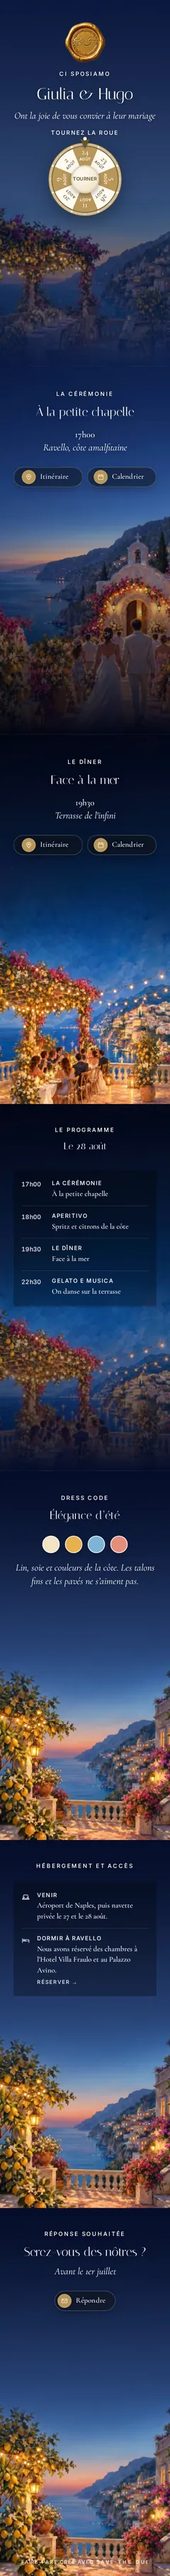
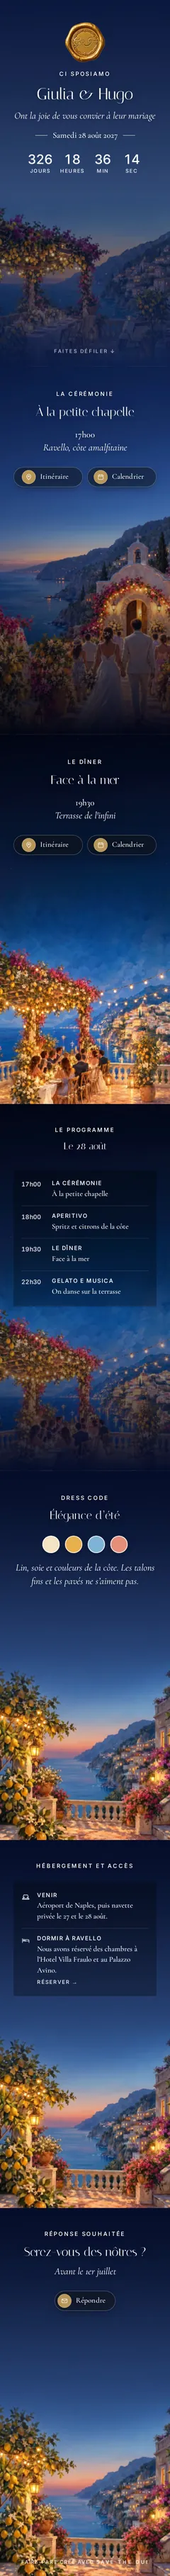
Configurateur : bascule de format immédiate (grand tableau préparé en arrière-plan), téléphone scène par scène calé sur chaque écran et sans la roue ; ouvertures et révélations en pose fixe, animées au survol, vraie enveloppe
Claude-Session: https://claude.ai/code/session_01RtanwyKP89p6wkEb6pKcCE

Changed region(s): [[0.2625, 0.0311, 0.7292, 0.0932]]

diff --git a/business/landing/vitrine.css b/business/landing/vitrine.css
@@ -820,7 +820,7 @@
   /* les deux formats : la vraie démo défile DANS un téléphone, rien ne dépasse de l'écran (règle 38).
      Scène par scène : arrêt sur chaque écran (7 écrans de la démo) ; grand tableau : une seule descente continue. */
   .fmtc .fv:has(.tbp){padding:0;align-items:center;height:236px}
-  .fmtc .fv i.tbp{position:relative;display:block;height:206px;width:auto;aspect-ratio:390/844;flex:none;border:4px solid #1d1d1b;border-radius:16px;overflow:hidden;background:#1d1d1b;box-shadow:0 12px 24px -12px rgba(0,0,0,.55);transform:none}
+  .fmtc .fv i.tbp{box-sizing:content-box;position:relative;display:block;height:198px;width:auto;aspect-ratio:390/844;flex:none;border:4px solid #1d1d1b;border-radius:16px;overflow:hidden;background:#1d1d1b;box-shadow:0 12px 24px -12px rgba(0,0,0,.55);transform:none}
   .fmtc .fv i.tb{position:absolute;inset:0;display:block;height:auto;aspect-ratio:auto;border-radius:0;box-shadow:none;background:center top/100% auto no-repeat;transform:none}
   .fmtc .fv i.tb.scenes{animation:tbScenes 18.2s ease-in-out infinite}
   .fmtc .fv i.tb.long{animation:tbLong 22s linear infinite}
@@ -831,7 +831,7 @@
   .fmtc small{padding:0 14px;font-size:12.5px;line-height:1.4;color:var(--muted)}
   .fmtc[aria-pressed="true"]::after{content:'✓';position:absolute;top:8px;right:8px;width:24px;height:24px;border-radius:50%;background:var(--ink);color:#fff;font:600 13px/24px Inter,sans-serif;text-align:center;box-shadow:0 1px 4px rgba(0,0,0,.3)}
   .opts.fmtv:has([aria-pressed="true"]) .fmtc[aria-pressed="false"]{opacity:.72}
-  @media (max-width:560px){ .fmtc .fv:has(.tbp){height:196px} .fmtc .fv i.tbp{height:170px;border-width:3px;border-radius:13px} .fmtc .fv{height:150px;gap:6px;padding:14px 8px 0} .fmtc .fv i:nth-child(3){display:none} .fmtc .fv i.roll{top:14px;height:210px} .fmtc b{font-size:15px} }
+  @media (max-width:560px){ .fmtc .fv:has(.tbp){height:196px} .fmtc .fv i.tbp{height:164px;border-width:3px;border-radius:13px} .fmtc .fv{height:150px;gap:6px;padding:14px 8px 0} .fmtc .fv i:nth-child(3){display:none} .fmtc .fv i.roll{top:14px;height:210px} .fmtc b{font-size:15px} }
   @media (max-width:560px){ .story>li.fixed{flex-direction:column;gap:3px} .story .ev-h{flex-wrap:wrap} }
   .opts .sw.th-end{margin-right:14px} /* les couleurs du thème, puis les couleurs communes */
   /* le téléphone de l'aperçu fait 284 px : la basmala y garde la même place que sur un vrai téléphone (5,2 % de la largeur), entière */
@@ -855,7 +855,9 @@
   .ed-n{margin:0;font-size:13px;color:var(--muted)}
   @media (max-width:560px){ .ed-row,.ed-row.s{grid-template-columns:1fr} .ed-x{justify-self:end} }
 
-/* Ouverture et révélation : chaque carte rejoue son effet en boucle dans un petit téléphone (5 s), avec les images du thème */
+/* Ouverture et révélation : chaque carte montre son effet dans un petit téléphone aux images du thème.
+   Au repos : une pose figée qui fait comprendre l'effet (enveloppe scellée, rideau à moitié levé, portes entrouvertes,
+   ticket à moitié gratté…). Au survol : l'animation joue en boucle (5 s) ; sur un écran tactile, le toucher fait office de survol. */
 .op-card.anim{position:relative;padding:0 0 12px;gap:2px;min-width:0;overflow:hidden}
 .op-card.anim b,.op-card.anim small{padding:0 12px}
 .op-card.anim .ov{display:grid;place-items:center;width:100%;height:116px;margin-bottom:8px;background:var(--bg-2)}
@@ -867,47 +869,55 @@
 .opts:has(.op-card.anim[aria-pressed="true"]) .op-card.anim[aria-pressed="false"] .ov{opacity:.72}
 #cOpen,#cReveal{display:grid;grid-template-columns:repeat(4,minmax(0,1fr));gap:8px}
 @media (max-width:560px){ #cOpen,#cReveal{grid-template-columns:repeat(2,minmax(0,1fr))} }
-/* enveloppe : le sceau saute, le rabat se lève, l'enveloppe descend et découvre la scène */
-.op-card.anim .ov-env .eb{inset:0;background:#efe6d6;box-shadow:inset 0 0 0 1px rgba(0,0,0,.06);animation:ovEnvB 5s ease-in-out infinite}
-.op-card.anim .ov-env .ef{left:0;right:0;top:0;height:52%;background:#e4d8c3;clip-path:polygon(0 0,100% 0,50% 100%);transform-origin:top;animation:ovEnvF 5s ease-in-out infinite}
-.op-card.anim .ov-env .es{left:50%;top:44%;width:20px;height:20px;margin:-10px 0 0 -10px;background:var(--seal) center/contain no-repeat;animation:ovEnvS 5s ease-in-out infinite}
-@keyframes ovEnvS{0%,14%{transform:scale(1);opacity:1}22%,96%{transform:scale(1.35);opacity:0}100%{transform:scale(1);opacity:1}}
-@keyframes ovEnvF{0%,20%{transform:rotateX(0)}38%,96%{transform:rotateX(178deg)}100%{transform:rotateX(0)}}
-@keyframes ovEnvB{0%,36%{transform:translateY(0)}58%,96%{transform:translateY(170%)}100%{transform:translateY(0)}}
-/* rideau : il se lève sur la scène */
-.ov-cur .cu{inset:0;background:var(--ri) center/cover no-repeat;animation:ovCur 5s cubic-bezier(.6,0,.3,1) infinite}
-@keyframes ovCur{0%,18%{transform:translateY(0)}52%,92%{transform:translateY(-102%)}100%{transform:translateY(0)}}
-/* voile : deux pans opaques qui s'ouvrent par le milieu et se tassent vers les bords */
-.ov-voile .vl,.ov-voile .vr{top:0;bottom:0;width:50%;background:var(--ri) no-repeat;background-size:200% 100%}
-.ov-voile .vl{left:0;background-position:left center;transform-origin:left;animation:ovVoile 5s cubic-bezier(.55,0,.3,1) infinite}
-.ov-voile .vr{right:0;background-position:right center;transform-origin:right;animation:ovVoile 5s cubic-bezier(.55,0,.3,1) infinite}
-@keyframes ovVoile{0%,18%{transform:scaleX(1)}55%,92%{transform:scaleX(.14)}100%{transform:scaleX(1)}}
-/* grandes portes : deux battants sur gonds, la lumière passe */
-.ov-door .dl,.ov-door .dr{top:0;bottom:0;width:50%;background:var(--op) no-repeat;background-size:200% 100%;backface-visibility:hidden}
-.ov-door .dl{left:0;background-position:left center;transform-origin:left;animation:ovDoorL 5s cubic-bezier(.5,0,.25,1) infinite}
-.ov-door .dr{right:0;background-position:right center;transform-origin:right;animation:ovDoorR 5s cubic-bezier(.5,0,.25,1) infinite}
-.ov-door .fl{inset:0;background:radial-gradient(circle at 50% 50%,rgba(255,244,214,.95),rgba(255,236,190,0) 70%);opacity:0;animation:ovFlash 5s ease-in-out infinite}
-@keyframes ovDoorL{0%,18%{transform:rotateY(0)}58%,92%{transform:rotateY(-100deg)}100%{transform:rotateY(0)}}
-@keyframes ovDoorR{0%,18%{transform:rotateY(0)}58%,92%{transform:rotateY(100deg)}100%{transform:rotateY(0)}}
-@keyframes ovFlash{0%,24%{opacity:0}38%{opacity:.85}56%,100%{opacity:0}}
+/* lecture : seulement au survol (ou au clavier) ; rien ne tourne au repos */
+.op-card.anim .ph *{animation-duration:5s;animation-iteration-count:infinite;animation-fill-mode:both;animation-play-state:running}
+.op-card.anim:not(:hover):not(:focus-visible) .ph *{animation-name:none!important}
+/* enveloppe : les vraies images de l'ouverture (corps, rabat, sceau) ; le rabat se lève, l'enveloppe s'efface */
+.op-card.anim .ov-env .eb{inset:0;overflow:hidden;background:linear-gradient(175deg,#ece3ce 0%,#e2d7bd 55%,#d6c9a9 100%);animation-name:ovEnvOut;animation-timing-function:ease-in-out}
+.op-card.anim .ov-env .ein{top:0;height:100%;aspect-ratio:620/1110;left:50%;translate:-50% 0;transform:scale(1.32);transform-origin:50% 58%;perspective:300px}
+.op-card.anim .ov-env .ebd{inset:0;background:url("/img/open/env-body.webp") center/100% 100% no-repeat}
+.op-card.anim .ov-env .ef{left:0;top:0;width:100%;transform-origin:50% 0;animation-name:ovEnvFlap;animation-timing-function:cubic-bezier(.32,0,.34,1)}
+.op-card.anim .ov-env .ef img{display:block;width:100%;height:auto;filter:drop-shadow(0 3px 4px rgba(72,50,22,.28))}
+.op-card.anim .ov-env .es{left:50%;top:94%;width:26.5%;aspect-ratio:1;transform:translate(-50%,-50%);background:var(--seal) center/contain no-repeat}
+@keyframes ovEnvFlap{0%,14%{transform:rotateX(0)}46%,100%{transform:rotateX(62deg)}}
+@keyframes ovEnvOut{0%,44%{opacity:1}64%,92%{opacity:0}100%{opacity:1}}
+/* rideau : il se lève sur la scène (au repos : à moitié levé) */
+.op-card.anim .ov-cur .cu{inset:0;background:var(--ri) center/cover no-repeat;transform:translateY(-48%);animation-name:ovCur;animation-timing-function:cubic-bezier(.6,0,.3,1)}
+@keyframes ovCur{0%,14%{transform:translateY(0)}52%,92%{transform:translateY(-102%)}100%{transform:translateY(0)}}
+/* voile : deux pans opaques qui s'ouvrent par le milieu (au repos : entrouverts) */
+.op-card.anim .ov-voile .vl,.op-card.anim .ov-voile .vr{top:0;bottom:0;width:50%;background:var(--ri) no-repeat;background-size:200% 100%;transform:scaleX(.58);animation-name:ovVoile;animation-timing-function:cubic-bezier(.55,0,.3,1)}
+.op-card.anim .ov-voile .vl{left:0;background-position:left center;transform-origin:left}
+.op-card.anim .ov-voile .vr{right:0;background-position:right center;transform-origin:right}
+@keyframes ovVoile{0%,14%{transform:scaleX(1)}55%,92%{transform:scaleX(.14)}100%{transform:scaleX(1)}}
+/* grandes portes : deux battants sur gonds, la lumière passe (au repos : entrouvertes, la lumière au milieu) */
+.op-card.anim .ov-door .dl,.op-card.anim .ov-door .dr{top:0;bottom:0;width:50%;background:var(--op) no-repeat;background-size:200% 100%;backface-visibility:hidden;animation-timing-function:cubic-bezier(.5,0,.25,1)}
+.op-card.anim .ov-door .dl{left:0;background-position:left center;transform-origin:left;transform:rotateY(-48deg);animation-name:ovDoorL}
+.op-card.anim .ov-door .dr{right:0;background-position:right center;transform-origin:right;transform:rotateY(48deg);animation-name:ovDoorR}
+.op-card.anim .ov-door .fl{inset:0;background:radial-gradient(circle at 50% 50%,rgba(255,244,214,.95),rgba(255,236,190,0) 70%);opacity:.55;animation-name:ovFlash}
+@keyframes ovDoorL{0%,14%{transform:rotateY(0)}58%,92%{transform:rotateY(-100deg)}100%{transform:rotateY(0)}}
+@keyframes ovDoorR{0%,14%{transform:rotateY(0)}58%,92%{transform:rotateY(100deg)}100%{transform:rotateY(0)}}
+@keyframes ovFlash{0%,22%{opacity:0}38%{opacity:.85}56%,100%{opacity:0}}
 /* révélation de la date */
 .op-card.anim .ph .dt{left:0;right:0;top:30%;text-align:center;font:italic 500 11px/1.2 "Cormorant Garamond",Georgia,serif;color:#fff;text-shadow:0 1px 4px rgba(0,0,0,.6)}
-.ov-non .dt{animation:ovDate 5s ease-in-out infinite}
+.op-card.anim .ov-non .dt{animation-name:ovDate;animation-timing-function:ease-in-out}
 @keyframes ovDate{0%,10%{opacity:0;transform:translateY(4px)}28%,90%{opacity:1;transform:none}100%{opacity:0}}
-.ov-scratch .fo{left:7px;right:7px;top:calc(30% - 4px);height:20px;border-radius:3px;background:linear-gradient(135deg,color-mix(in srgb,var(--pc) 70%,#fff),var(--pc) 55%,color-mix(in srgb,var(--pc) 60%,#000));animation:ovFoil 5s linear infinite}
-.ov-scratch .coin{top:calc(30% - 2px);left:6px;width:12px;height:12px;border-radius:50%;background:radial-gradient(circle at 35% 35%,#fff6d8,#c9a35a 60%,#8a6a2c);box-shadow:0 1px 3px rgba(0,0,0,.5);animation:ovCoin 5s linear infinite}
+.op-card.anim .ov-scratch .fo{left:7px;right:7px;top:calc(30% - 4px);height:20px;border-radius:3px;background:linear-gradient(135deg,color-mix(in srgb,var(--pc) 70%,#fff),var(--pc) 55%,color-mix(in srgb,var(--pc) 60%,#000));clip-path:inset(0 0 0 52%);animation-name:ovFoil;animation-timing-function:linear}
+.op-card.anim .ov-scratch .coin{top:calc(30% - 2px);left:6px;width:12px;height:12px;border-radius:50%;background:radial-gradient(circle at 35% 35%,#fff6d8,#c9a35a 60%,#8a6a2c);box-shadow:0 1px 3px rgba(0,0,0,.5);transform:translate(16px,3px);animation-name:ovCoin;animation-timing-function:linear}
 @keyframes ovFoil{0%,16%{clip-path:inset(0 0 0 0)}60%,92%{clip-path:inset(0 0 0 100%)}100%{clip-path:inset(0 0 0 0)}}
 @keyframes ovCoin{0%,16%{transform:translate(0,0);opacity:1}26%{transform:translate(8px,6px)}36%{transform:translate(16px,-3px)}46%{transform:translate(24px,5px)}60%{transform:translate(34px,0);opacity:1}66%,100%{opacity:0;transform:translate(34px,0)}}
-.ov-wheel .wh{left:50%;top:22%;width:38px;height:38px;margin-left:-19px;border-radius:50%;border:2px solid #f3e6c4;background:conic-gradient(var(--pc) 0 45deg,#fbf3df 45deg 90deg,var(--pc) 90deg 135deg,#fbf3df 135deg 180deg,var(--pc) 180deg 225deg,#fbf3df 225deg 270deg,var(--pc) 270deg 315deg,#fbf3df 315deg);box-shadow:0 2px 6px rgba(0,0,0,.5);animation:ovWheel 5s cubic-bezier(.15,.6,.2,1) infinite}
-.ov-wheel .pin{left:50%;top:calc(22% - 5px);width:0;height:0;margin-left:-4px;border:4px solid transparent;border-top:7px solid #fff}
-@keyframes ovWheel{0%,10%{transform:rotate(0)}70%,94%{transform:rotate(1462deg)}100%{transform:rotate(1462deg)}}
-.op-card.anim .ov-slot .sl{left:3px;right:3px;top:28%;height:18px;display:flex !important;gap:2px}
+.op-card.anim .ov-wheel .wh{left:50%;top:22%;width:38px;height:38px;margin-left:-19px;border-radius:50%;border:2px solid #f3e6c4;background:conic-gradient(var(--pc) 0 45deg,#fbf3df 45deg 90deg,var(--pc) 90deg 135deg,#fbf3df 135deg 180deg,var(--pc) 180deg 225deg,#fbf3df 225deg 270deg,var(--pc) 270deg 315deg,#fbf3df 315deg);box-shadow:0 2px 6px rgba(0,0,0,.5);transform:rotate(22deg);animation-name:ovWheel;animation-timing-function:cubic-bezier(.15,.6,.2,1)}
+.op-card.anim .ov-wheel .pin{left:50%;top:calc(22% - 5px);width:0;height:0;margin-left:-4px;border:4px solid transparent;border-top:7px solid #fff}
+@keyframes ovWheel{0%,10%{transform:rotate(0)}70%,100%{transform:rotate(1462deg)}}
+.op-card.anim .ov-slot .sl{left:3px;right:3px;top:28%;height:18px;display:flex!important;gap:2px}
 .op-card.anim .ov-slot .sl>i{position:relative;flex:1;height:18px;overflow:hidden;border-radius:2px;background:#fbf3df;box-shadow:inset 0 0 0 1px var(--pc)}
-.op-card.anim .ov-slot .sl>i>i{position:absolute;left:0;right:0;top:0;animation:ovSlot 5s cubic-bezier(.3,0,.2,1) infinite}
+.op-card.anim .ov-slot .sl>i>i{position:absolute;left:0;right:0;top:0;transform:translateY(-90px);animation-name:ovSlot;animation-timing-function:cubic-bezier(.3,0,.2,1)}
 .op-card.anim .ov-slot .sl>i:nth-child(2)>i{animation-name:ovSlot2}
 .op-card.anim .ov-slot .sl>i:nth-child(3)>i{animation-name:ovSlot3}
 .op-card.anim .ov-slot .sl b{padding:0;display:block;height:18px;font:600 9.5px/18px Inter,sans-serif;letter-spacing:-.02em;text-align:center;color:#1d1d1b}
 @keyframes ovSlot{0%,12%{transform:translateY(0)}40%,94%{transform:translateY(-90px)}100%{transform:translateY(0)}}
 @keyframes ovSlot2{0%,12%{transform:translateY(0)}52%,94%{transform:translateY(-90px)}100%{transform:translateY(0)}}
 @keyframes ovSlot3{0%,12%{transform:translateY(0)}64%,94%{transform:translateY(-90px)}100%{transform:translateY(0)}}
-@media (prefers-reduced-motion:reduce){ .op-card.anim .ph *{animation:none !important} }
+@media (prefers-reduced-motion:reduce){ .op-card.anim .ph *{animation-name:none!important} }
+
+/* grand tableau préparé en arrière-plan pendant qu'on regarde le scène par scène */
+#cpPhone.lg-off iframe.cp-lg{visibility:hidden;pointer-events:none}

diff --git a/business/site/vitrine.css b/business/site/vitrine.css
@@ -820,7 +820,7 @@
   /* les deux formats : la vraie démo défile DANS un téléphone, rien ne dépasse de l'écran (règle 38).
      Scène par scène : arrêt sur chaque écran (7 écrans de la démo) ; grand tableau : une seule descente continue. */
   .fmtc .fv:has(.tbp){padding:0;align-items:center;height:236px}
-  .fmtc .fv i.tbp{position:relative;display:block;height:206px;width:auto;aspect-ratio:390/844;flex:none;border:4px solid #1d1d1b;border-radius:16px;overflow:hidden;background:#1d1d1b;box-shadow:0 12px 24px -12px rgba(0,0,0,.55);transform:none}
+  .fmtc .fv i.tbp{box-sizing:content-box;position:relative;display:block;height:198px;width:auto;aspect-ratio:390/844;flex:none;border:4px solid #1d1d1b;border-radius:16px;overflow:hidden;background:#1d1d1b;box-shadow:0 12px 24px -12px rgba(0,0,0,.55);transform:none}
   .fmtc .fv i.tb{position:absolute;inset:0;display:block;height:auto;aspect-ratio:auto;border-radius:0;box-shadow:none;background:center top/100% auto no-repeat;transform:none}
   .fmtc .fv i.tb.scenes{animation:tbScenes 18.2s ease-in-out infinite}
   .fmtc .fv i.tb.long{animation:tbLong 22s linear infinite}
@@ -831,7 +831,7 @@
   .fmtc small{padding:0 14px;font-size:12.5px;line-height:1.4;color:var(--muted)}
   .fmtc[aria-pressed="true"]::after{content:'✓';position:absolute;top:8px;right:8px;width:24px;height:24px;border-radius:50%;background:var(--ink);color:#fff;font:600 13px/24px Inter,sans-serif;text-align:center;box-shadow:0 1px 4px rgba(0,0,0,.3)}
   .opts.fmtv:has([aria-pressed="true"]) .fmtc[aria-pressed="false"]{opacity:.72}
-  @media (max-width:560px){ .fmtc .fv:has(.tbp){height:196px} .fmtc .fv i.tbp{height:170px;border-width:3px;border-radius:13px} .fmtc .fv{height:150px;gap:6px;padding:14px 8px 0} .fmtc .fv i:nth-child(3){display:none} .fmtc .fv i.roll{top:14px;height:210px} .fmtc b{font-size:15px} }
+  @media (max-width:560px){ .fmtc .fv:has(.tbp){height:196px} .fmtc .fv i.tbp{height:164px;border-width:3px;border-radius:13px} .fmtc .fv{height:150px;gap:6px;padding:14px 8px 0} .fmtc .fv i:nth-child(3){display:none} .fmtc .fv i.roll{top:14px;height:210px} .fmtc b{font-size:15px} }
   @media (max-width:560px){ .story>li.fixed{flex-direction:column;gap:3px} .story .ev-h{flex-wrap:wrap} }
   .opts .sw.th-end{margin-right:14px} /* les couleurs du thème, puis les couleurs communes */
   /* le téléphone de l'aperçu fait 284 px : la basmala y garde la même place que sur un vrai téléphone (5,2 % de la largeur), entière */
@@ -855,7 +855,9 @@
   .ed-n{margin:0;font-size:13px;color:var(--muted)}
   @media (max-width:560px){ .ed-row,.ed-row.s{grid-template-columns:1fr} .ed-x{justify-self:end} }
 
-/* Ouverture et révélation : chaque carte rejoue son effet en boucle dans un petit téléphone (5 s), avec les images du thème */
+/* Ouverture et révélation : chaque carte montre son effet dans un petit téléphone aux images du thème.
+   Au repos : une pose figée qui fait comprendre l'effet (enveloppe scellée, rideau à moitié levé, portes entrouvertes,
+   ticket à moitié gratté…). Au survol : l'animation joue en boucle (5 s) ; sur un écran tactile, le toucher fait office de survol. */
 .op-card.anim{position:relative;padding:0 0 12px;gap:2px;min-width:0;overflow:hidden}
 .op-card.anim b,.op-card.anim small{padding:0 12px}
 .op-card.anim .ov{display:grid;place-items:center;width:100%;height:116px;margin-bottom:8px;background:var(--bg-2)}
@@ -867,47 +869,55 @@
 .opts:has(.op-card.anim[aria-pressed="true"]) .op-card.anim[aria-pressed="false"] .ov{opacity:.72}
 #cOpen,#cReveal{display:grid;grid-template-columns:repeat(4,minmax(0,1fr));gap:8px}
 @media (max-width:560px){ #cOpen,#cReveal{grid-template-columns:repeat(2,minmax(0,1fr))} }
-/* enveloppe : le sceau saute, le rabat se lève, l'enveloppe descend et découvre la scène */
-.op-card.anim .ov-env .eb{inset:0;background:#efe6d6;box-shadow:inset 0 0 0 1px rgba(0,0,0,.06);animation:ovEnvB 5s ease-in-out infinite}
-.op-card.anim .ov-env .ef{left:0;right:0;top:0;height:52%;background:#e4d8c3;clip-path:polygon(0 0,100% 0,50% 100%);transform-origin:top;animation:ovEnvF 5s ease-in-out infinite}
-.op-card.anim .ov-env .es{left:50%;top:44%;width:20px;height:20px;margin:-10px 0 0 -10px;background:var(--seal) center/contain no-repeat;animation:ovEnvS 5s ease-in-out infinite}
-@keyframes ovEnvS{0%,14%{transform:scale(1);opacity:1}22%,96%{transform:scale(1.35);opacity:0}100%{transform:scale(1);opacity:1}}
-@keyframes ovEnvF{0%,20%{transform:rotateX(0)}38%,96%{transform:rotateX(178deg)}100%{transform:rotateX(0)}}
-@keyframes ovEnvB{0%,36%{transform:translateY(0)}58%,96%{transform:translateY(170%)}100%{transform:translateY(0)}}
-/* rideau : il se lève sur la scène */
-.ov-cur .cu{inset:0;background:var(--ri) center/cover no-repeat;animation:ovCur 5s cubic-bezier(.6,0,.3,1) infinite}
-@keyframes ovCur{0%,18%{transform:translateY(0)}52%,92%{transform:translateY(-102%)}100%{transform:translateY(0)}}
-/* voile : deux pans opaques qui s'ouvrent par le milieu et se tassent vers les bords */
-.ov-voile .vl,.ov-voile .vr{top:0;bottom:0;width:50%;background:var(--ri) no-repeat;background-size:200% 100%}
-.ov-voile .vl{left:0;background-position:left center;transform-origin:left;animation:ovVoile 5s cubic-bezier(.55,0,.3,1) infinite}
-.ov-voile .vr{right:0;background-position:right center;transform-origin:right;animation:ovVoile 5s cubic-bezier(.55,0,.3,1) infinite}
-@keyframes ovVoile{0%,18%{transform:scaleX(1)}55%,92%{transform:scaleX(.14)}100%{transform:scaleX(1)}}
-/* grandes portes : deux battants sur gonds, la lumière passe */
-.ov-door .dl,.ov-door .dr{top:0;bottom:0;width:50%;background:var(--op) no-repeat;background-size:200% 100%;backface-visibility:hidden}
-.ov-door .dl{left:0;background-position:left center;transform-origin:left;animation:ovDoorL 5s cubic-bezier(.5,0,.25,1) infinite}
-.ov-door .dr{right:0;background-position:right center;transform-origin:right;animation:ovDoorR 5s cubic-bezier(.5,0,.25,1) infinite}
-.ov-door .fl{inset:0;background:radial-gradient(circle at 50% 50%,rgba(255,244,214,.95),rgba(255,236,190,0) 70%);opacity:0;animation:ovFlash 5s ease-in-out infinite}
-@keyframes ovDoorL{0%,18%{transform:rotateY(0)}58%,92%{transform:rotateY(-100deg)}100%{transform:rotateY(0)}}
-@keyframes ovDoorR{0%,18%{transform:rotateY(0)}58%,92%{transform:rotateY(100deg)}100%{transform:rotateY(0)}}
-@keyframes ovFlash{0%,24%{opacity:0}38%{opacity:.85}56%,100%{opacity:0}}
+/* lecture : seulement au survol (ou au clavier) ; rien ne tourne au repos */
+.op-card.anim .ph *{animation-duration:5s;animation-iteration-count:infinite;animation-fill-mode:both;animation-play-state:running}
+.op-card.anim:not(:hover):not(:focus-visible) .ph *{animation-name:none!important}
+/* enveloppe : les vraies images de l'ouverture (corps, rabat, sceau) ; le rabat se lève, l'enveloppe s'efface */
+.op-card.anim .ov-env .eb{inset:0;overflow:hidden;background:linear-gradient(175deg,#ece3ce 0%,#e2d7bd 55%,#d6c9a9 100%);animation-name:ovEnvOut;animation-timing-function:ease-in-out}
+.op-card.anim .ov-env .ein{top:0;height:100%;aspect-ratio:620/1110;left:50%;translate:-50% 0;transform:scale(1.32);transform-origin:50% 58%;perspective:300px}
+.op-card.anim .ov-env .ebd{inset:0;background:url("/img/open/env-body.webp") center/100% 100% no-repeat}
+.op-card.anim .ov-env .ef{left:0;top:0;width:100%;transform-origin:50% 0;animation-name:ovEnvFlap;animation-timing-function:cubic-bezier(.32,0,.34,1)}
+.op-card.anim .ov-env .ef img{display:block;width:100%;height:auto;filter:drop-shadow(0 3px 4px rgba(72,50,22,.28))}
+.op-card.anim .ov-env .es{left:50%;top:94%;width:26.5%;aspect-ratio:1;transform:translate(-50%,-50%);background:var(--seal) center/contain no-repeat}
+@keyframes ovEnvFlap{0%,14%{transform:rotateX(0)}46%,100%{transform:rotateX(62deg)}}
+@keyframes ovEnvOut{0%,44%{opacity:1}64%,92%{opacity:0}100%{opacity:1}}
+/* rideau : il se lève sur la scène (au repos : à moitié levé) */
+.op-card.anim .ov-cur .cu{inset:0;background:var(--ri) center/cover no-repeat;transform:translateY(-48%);animation-name:ovCur;animation-timing-function:cubic-bezier(.6,0,.3,1)}
+@keyframes ovCur{0%,14%{transform:translateY(0)}52%,92%{transform:translateY(-102%)}100%{transform:translateY(0)}}
+/* voile : deux pans opaques qui s'ouvrent par le milieu (au repos : entrouverts) */
+.op-card.anim .ov-voile .vl,.op-card.anim .ov-voile .vr{top:0;bottom:0;width:50%;background:var(--ri) no-repeat;background-size:200% 100%;transform:scaleX(.58);animation-name:ovVoile;animation-timing-function:cubic-bezier(.55,0,.3,1)}
+.op-card.anim .ov-voile .vl{left:0;background-position:left center;transform-origin:left}
+.op-card.anim .ov-voile .vr{right:0;background-position:right center;transform-origin:right}
+@keyframes ovVoile{0%,14%{transform:scaleX(1)}55%,92%{transform:scaleX(.14)}100%{transform:scaleX(1)}}
+/* grandes portes : deux battants sur gonds, la lumière passe (au repos : entrouvertes, la lumière au milieu) */
+.op-card.anim .ov-door .dl,.op-card.anim .ov-door .dr{top:0;bottom:0;width:50%;background:var(--op) no-repeat;background-size:200% 100%;backface-visibility:hidden;animation-timing-function:cubic-bezier(.5,0,.25,1)}
+.op-card.anim .ov-door .dl{left:0;background-position:left center;transform-origin:left;transform:rotateY(-48deg);animation-name:ovDoorL}
+.op-card.anim .ov-door .dr{right:0;background-position:right center;transform-origin:right;transform:rotateY(48deg);animation-name:ovDoorR}
+.op-card.anim .ov-door .fl{inset:0;background:radial-gradient(circle at 50% 50%,rgba(255,244,214,.95),rgba(255,236,190,0) 70%);opacity:.55;animation-name:ovFlash}
+@keyframes ovDoorL{0%,14%{transform:rotateY(0)}58%,92%{transform:rotateY(-100deg)}100%{transform:rotateY(0)}}
+@keyframes ovDoorR{0%,14%{transform:rotateY(0)}58%,92%{transform:rotateY(100deg)}100%{transform:rotateY(0)}}
+@keyframes ovFlash{0%,22%{opacity:0}38%{opacity:.85}56%,100%{opacity:0}}
 /* révélation de la date */
 .op-card.anim .ph .dt{left:0;right:0;top:30%;text-align:center;font:italic 500 11px/1.2 "Cormorant Garamond",Georgia,serif;color:#fff;text-shadow:0 1px 4px rgba(0,0,0,.6)}
-.ov-non .dt{animation:ovDate 5s ease-in-out infinite}
+.op-card.anim .ov-non .dt{animation-name:ovDate;animation-timing-function:ease-in-out}
 @keyframes ovDate{0%,10%{opacity:0;transform:translateY(4px)}28%,90%{opacity:1;transform:none}100%{opacity:0}}
-.ov-scratch .fo{left:7px;right:7px;top:calc(30% - 4px);height:20px;border-radius:3px;background:linear-gradient(135deg,color-mix(in srgb,var(--pc) 70%,#fff),var(--pc) 55%,color-mix(in srgb,var(--pc) 60%,#000));animation:ovFoil 5s linear infinite}
-.ov-scratch .coin{top:calc(30% - 2px);left:6px;width:12px;height:12px;border-radius:50%;background:radial-gradient(circle at 35% 35%,#fff6d8,#c9a35a 60%,#8a6a2c);box-shadow:0 1px 3px rgba(0,0,0,.5);animation:ovCoin 5s linear infinite}
+.op-card.anim .ov-scratch .fo{left:7px;right:7px;top:calc(30% - 4px);height:20px;border-radius:3px;background:linear-gradient(135deg,color-mix(in srgb,var(--pc) 70%,#fff),var(--pc) 55%,color-mix(in srgb,var(--pc) 60%,#000));clip-path:inset(0 0 0 52%);animation-name:ovFoil;animation-timing-function:linear}
+.op-card.anim .ov-scratch .coin{top:calc(30% - 2px);left:6px;width:12px;height:12px;border-radius:50%;background:radial-gradient(circle at 35% 35%,#fff6d8,#c9a35a 60%,#8a6a2c);box-shadow:0 1px 3px rgba(0,0,0,.5);transform:translate(16px,3px);animation-name:ovCoin;animation-timing-function:linear}
 @keyframes ovFoil{0%,16%{clip-path:inset(0 0 0 0)}60%,92%{clip-path:inset(0 0 0 100%)}100%{clip-path:inset(0 0 0 0)}}
 @keyframes ovCoin{0%,16%{transform:translate(0,0);opacity:1}26%{transform:translate(8px,6px)}36%{transform:translate(16px,-3px)}46%{transform:translate(24px,5px)}60%{transform:translate(34px,0);opacity:1}66%,100%{opacity:0;transform:translate(34px,0)}}
-.ov-wheel .wh{left:50%;top:22%;width:38px;height:38px;margin-left:-19px;border-radius:50%;border:2px solid #f3e6c4;background:conic-gradient(var(--pc) 0 45deg,#fbf3df 45deg 90deg,var(--pc) 90deg 135deg,#fbf3df 135deg 180deg,var(--pc) 180deg 225deg,#fbf3df 225deg 270deg,var(--pc) 270deg 315deg,#fbf3df 315deg);box-shadow:0 2px 6px rgba(0,0,0,.5);animation:ovWheel 5s cubic-bezier(.15,.6,.2,1) infinite}
-.ov-wheel .pin{left:50%;top:calc(22% - 5px);width:0;height:0;margin-left:-4px;border:4px solid transparent;border-top:7px solid #fff}
-@keyframes ovWheel{0%,10%{transform:rotate(0)}70%,94%{transform:rotate(1462deg)}100%{transform:rotate(1462deg)}}
-.op-card.anim .ov-slot .sl{left:3px;right:3px;top:28%;height:18px;display:flex !important;gap:2px}
+.op-card.anim .ov-wheel .wh{left:50%;top:22%;width:38px;height:38px;margin-left:-19px;border-radius:50%;border:2px solid #f3e6c4;background:conic-gradient(var(--pc) 0 45deg,#fbf3df 45deg 90deg,var(--pc) 90deg 135deg,#fbf3df 135deg 180deg,var(--pc) 180deg 225deg,#fbf3df 225deg 270deg,var(--pc) 270deg 315deg,#fbf3df 315deg);box-shadow:0 2px 6px rgba(0,0,0,.5);transform:rotate(22deg);animation-name:ovWheel;animation-timing-function:cubic-bezier(.15,.6,.2,1)}
+.op-card.anim .ov-wheel .pin{left:50%;top:calc(22% - 5px);width:0;height:0;margin-left:-4px;border:4px solid transparent;border-top:7px solid #fff}
+@keyframes ovWheel{0%,10%{transform:rotate(0)}70%,100%{transform:rotate(1462deg)}}
+.op-card.anim .ov-slot .sl{left:3px;right:3px;top:28%;height:18px;display:flex!important;gap:2px}
 .op-card.anim .ov-slot .sl>i{position:relative;flex:1;height:18px;overflow:hidden;border-radius:2px;background:#fbf3df;box-shadow:inset 0 0 0 1px var(--pc)}
-.op-card.anim .ov-slot .sl>i>i{position:absolute;left:0;right:0;top:0;animation:ovSlot 5s cubic-bezier(.3,0,.2,1) infinite}
+.op-card.anim .ov-slot .sl>i>i{position:absolute;left:0;right:0;top:0;transform:translateY(-90px);animation-name:ovSlot;animation-timing-function:cubic-bezier(.3,0,.2,1)}
 .op-card.anim .ov-slot .sl>i:nth-child(2)>i{animation-name:ovSlot2}
 .op-card.anim .ov-slot .sl>i:nth-child(3)>i{animation-name:ovSlot3}
 .op-card.anim .ov-slot .sl b{padding:0;display:block;height:18px;font:600 9.5px/18px Inter,sans-serif;letter-spacing:-.02em;text-align:center;color:#1d1d1b}
 @keyframes ovSlot{0%,12%{transform:translateY(0)}40%,94%{transform:translateY(-90px)}100%{transform:translateY(0)}}
 @keyframes ovSlot2{0%,12%{transform:translateY(0)}52%,94%{transform:translateY(-90px)}100%{transform:translateY(0)}}
 @keyframes ovSlot3{0%,12%{transform:translateY(0)}64%,94%{transform:translateY(-90px)}100%{transform:translateY(0)}}
-@media (prefers-reduced-motion:reduce){ .op-card.anim .ph *{animation:none !important} }
+@media (prefers-reduced-motion:reduce){ .op-card.anim .ph *{animation-name:none!important} }
+
+/* grand tableau préparé en arrière-plan pendant qu'on regarde le scène par scène */
+#cpPhone.lg-off iframe.cp-lg{visibility:hidden;pointer-events:none}

diff --git a/business/landing/vitrine.js b/business/landing/vitrine.js
@@ -219,9 +219,10 @@
   const $=id=>document.getElementById(id);
   function shade(hex,f){ const n=parseInt(hex.slice(1),16); const ch=s=>Math.max(0,Math.min(255,Math.round(((n>>s)&255)*f))); return `rgb(${ch(16)},${ch(8)},${ch(0)})`; }
   function opt(box,items,key,label,draw){ items.forEach(it=>{ const b=document.createElement('button'); b.type='button'; b.dataset.id=it.id||it; draw(b,it); b.onclick=()=>{ C[key]=b.dataset.id; if(key==='k') C.font='theme'; paint(); }; box.appendChild(b); }); }
-  /* chaque ouverture et chaque révélation se montre sur sa carte, en boucle (« les gens voient direct l'impact, sans
-     attendre le téléphone à droite ») ; les images suivent le thème (variables --sc, --op, --seal, --pc posées par paint) */
-  const OV={env:'<i class="sc"></i><i class="eb"><i class="ef"></i><i class="es"></i></i>',cur:'<i class="sc"></i><i class="cu"></i>',
+  /* chaque ouverture et chaque révélation se montre sur sa carte (« les gens voient direct l'impact, sans attendre le
+     téléphone à droite ») : au repos, une image figée qui dit l'effet ; l'animation ne se joue qu'au survol (au toucher sur
+     téléphone), pour ne pas faire tourner huit animations en permanence ; les images suivent le thème (variables --sc, --op, --seal, --pc posées par paint) */
+  const OV={env:'<i class="sc"></i><i class="eb"><i class="ein"><i class="ebd"></i><i class="ef"><img src="/img/open/env-flap.webp" alt=""><i class="es"></i></i></i></i>',cur:'<i class="sc"></i><i class="cu"></i>',
     voile:'<i class="sc"></i><i class="vl"></i><i class="vr"></i>',door:'<i class="sc"></i><i class="dl"></i><i class="dr"></i><i class="fl"></i>',
     non:'<i class="sc"></i><em class="dt">28 · 08</em>',scratch:'<i class="sc"></i><em class="dt">28 · 08</em><i class="fo"></i><i class="coin"></i>',
     wheel:'<i class="sc"></i><i class="wh"></i><i class="pin"></i>',slot:'<i class="sc"></i><i class="sl">'+[0,1,2].map(i=>`<i><i>${['13 07 21 19 04','05 11 02 09 12','29 31 26 30 28'][i].split(' ').map(x=>`<b>${x}</b>`).join('')}<b>${['28','08','27'][i]}</b></i></i>`).join('')+'</i>'};
@@ -495,7 +496,9 @@
     cpLayout();
     // grand tableau : l'aperçu est le vrai faire-part (invite.js) construit avec vos choix, dans le téléphone
     sc.hidden=C.fmt==='long';
-    if(C.fmt==='long') lgRender(lgInvite(t,p,f,n1,n2,ds)); else lgClear();
+    // le grand tableau reste préparé en arrière-plan (caché en scène par scène) : changer de format est immédiat
+    $('cpPhone').classList.toggle('lg-off',C.fmt!=='long');
+    lgRender(lgInvite(t,p,f,n1,n2,ds),C.fmt==='long'?120:900);
     { const h=sc.querySelector('.cp-rvl'); if(h&&window.SceauReveal) SceauReveal.mount(h,{kind:rv,date:d,pal:p.c,light:t.light&&t.scenes[0][4]!=='dark',scope:h.parentNode}); }
     $('fOpen').value=OPENS.find(o=>o.id===C.op).name; $('fCount').value=COUNTS.find(o=>o.id===C.cd).name; $('fReveal').value=C.fmt==='long'?'Aucune':REVEALS.find(o=>o.id===C.rvl).name; if($('fNames')) $('fNames').value=whoTxt(); $('fStyle').value=t.name; $('fPal').value=p.name; $('fFont').value=f.name; $('fScreens').value=xOn().map(x=>x.id==='gifts'?giftName():x.name).join(', ')+(edText()?' — '+edText():'');
     const evTxt=e=>e.bg==='scene'?LIEUX.find(x=>x.id===e.lieu).name:'écran simple';
@@ -528,8 +531,7 @@
       rsvp:{eyebrow:'Réponse souhaitée',title:'Serez-vous des nôtres ?',deadline:dl}};
   }
   let lgKey='', lgT=null;
-  function lgClear(){ lgKey=''; clearTimeout(lgT); $('cpPhone').querySelectorAll('iframe.cp-lg').forEach(x=>x.remove()); }
-  function lgRender(inv){
+  function lgRender(inv,wait){
     const key=JSON.stringify(inv); if(key===lgKey) return; lgKey=key; clearTimeout(lgT);
     lgT=setTimeout(async()=>{
       const meta=await (lgMeta[inv.theme]||(lgMeta[inv.theme]=fetch(`/img/long/${inv.theme}/meta.json`).then(r=>r.ok?r.json():null).catch(()=>null)));
@@ -539,9 +541,9 @@
       let y=0; try{ y=old.contentDocument.getElementById('sc').scrollTop; }catch(e){}
       const fr=document.createElement('iframe'); fr.className='cp-lg'; fr.title='Aperçu de votre faire-part'; fr.setAttribute('aria-label','Aperçu de votre faire-part'); fr.style.opacity=0;
       fr.srcdoc=`<!doctype html><html lang="fr"><head><meta charset="utf-8"><meta name="viewport" content="width=device-width, initial-scale=1"><base href="${location.origin}/"><link rel="stylesheet" href="/polices/polices.css"><link rel="stylesheet" href="/invite.css"><link rel="stylesheet" href="/reveal.css"><style>#op,#flash,.lg-want,.demo-tag,.snd{display:none!important}</style></head><body><script>window.INVITE=${JSON.stringify(inv).replace(/</g,'\\u003c')};<\/script><script src="/themes.js"><\/script><script src="/reveal.js"><\/script><script src="/invite.js"><\/script><script>document.getElementById('op').click();<\/script></body></html>`;
-      fr.onload=()=>setTimeout(()=>{ if(key!==lgKey){ fr.remove(); return; } try{ fr.contentDocument.getElementById('sc').scrollTop=y; }catch(e){} fr.style.opacity=1; olds.forEach(x=>x.remove()); },450);
+      fr.onload=()=>setTimeout(()=>{ if(key!==lgKey){ fr.remove(); return; } try{ fr.contentDocument.getElementById('sc').scrollTop=y; }catch(e){} fr.style.opacity=1; olds.forEach(x=>x.remove()); },200);
       ph.insertBefore(fr,$('cpTint'));
-    },250);
+    },wait);
   }
   // téléphone : l'aperçu réduit collé en haut s'agrandit en plein écran, et se referme
   { const pv=document.querySelector('.comp-prev'), big=$('cpBig'), cl=$('cpClose'), nav=$('wzNav'), side=$('cpMiniSteps'), home=nav.parentNode, mq=matchMedia('(max-width:720px)');

diff --git a/business/site/vitrine.js b/business/site/vitrine.js
@@ -219,9 +219,10 @@
   const $=id=>document.getElementById(id);
   function shade(hex,f){ const n=parseInt(hex.slice(1),16); const ch=s=>Math.max(0,Math.min(255,Math.round(((n>>s)&255)*f))); return `rgb(${ch(16)},${ch(8)},${ch(0)})`; }
   function opt(box,items,key,label,draw){ items.forEach(it=>{ const b=document.createElement('button'); b.type='button'; b.dataset.id=it.id||it; draw(b,it); b.onclick=()=>{ C[key]=b.dataset.id; if(key==='k') C.font='theme'; paint(); }; box.appendChild(b); }); }
-  /* chaque ouverture et chaque révélation se montre sur sa carte, en boucle (« les gens voient direct l'impact, sans
-     attendre le téléphone à droite ») ; les images suivent le thème (variables --sc, --op, --seal, --pc posées par paint) */
-  const OV={env:'<i class="sc"></i><i class="eb"><i class="ef"></i><i class="es"></i></i>',cur:'<i class="sc"></i><i class="cu"></i>',
+  /* chaque ouverture et chaque révélation se montre sur sa carte (« les gens voient direct l'impact, sans attendre le
+     téléphone à droite ») : au repos, une image figée qui dit l'effet ; l'animation ne se joue qu'au survol (au toucher sur
+     téléphone), pour ne pas faire tourner huit animations en permanence ; les images suivent le thème (variables --sc, --op, --seal, --pc posées par paint) */
+  const OV={env:'<i class="sc"></i><i class="eb"><i class="ein"><i class="ebd"></i><i class="ef"><img src="/img/open/env-flap.webp" alt=""><i class="es"></i></i></i></i>',cur:'<i class="sc"></i><i class="cu"></i>',
     voile:'<i class="sc"></i><i class="vl"></i><i class="vr"></i>',door:'<i class="sc"></i><i class="dl"></i><i class="dr"></i><i class="fl"></i>',
     non:'<i class="sc"></i><em class="dt">28 · 08</em>',scratch:'<i class="sc"></i><em class="dt">28 · 08</em><i class="fo"></i><i class="coin"></i>',
     wheel:'<i class="sc"></i><i class="wh"></i><i class="pin"></i>',slot:'<i class="sc"></i><i class="sl">'+[0,1,2].map(i=>`<i><i>${['13 07 21 19 04','05 11 02 09 12','29 31 26 30 28'][i].split(' ').map(x=>`<b>${x}</b>`).join('')}<b>${['28','08','27'][i]}</b></i></i>`).join('')+'</i>'};
@@ -495,7 +496,9 @@
     cpLayout();
     // grand tableau : l'aperçu est le vrai faire-part (invite.js) construit avec vos choix, dans le téléphone
     sc.hidden=C.fmt==='long';
-    if(C.fmt==='long') lgRender(lgInvite(t,p,f,n1,n2,ds)); else lgClear();
+    // le grand tableau reste préparé en arrière-plan (caché en scène par scène) : changer de format est immédiat
+    $('cpPhone').classList.toggle('lg-off',C.fmt!=='long');
+    lgRender(lgInvite(t,p,f,n1,n2,ds),C.fmt==='long'?120:900);
     { const h=sc.querySelector('.cp-rvl'); if(h&&window.SceauReveal) SceauReveal.mount(h,{kind:rv,date:d,pal:p.c,light:t.light&&t.scenes[0][4]!=='dark',scope:h.parentNode}); }
     $('fOpen').value=OPENS.find(o=>o.id===C.op).name; $('fCount').value=COUNTS.find(o=>o.id===C.cd).name; $('fReveal').value=C.fmt==='long'?'Aucune':REVEALS.find(o=>o.id===C.rvl).name; if($('fNames')) $('fNames').value=whoTxt(); $('fStyle').value=t.name; $('fPal').value=p.name; $('fFont').value=f.name; $('fScreens').value=xOn().map(x=>x.id==='gifts'?giftName():x.name).join(', ')+(edText()?' — '+edText():'');
     const evTxt=e=>e.bg==='scene'?LIEUX.find(x=>x.id===e.lieu).name:'écran simple';
@@ -528,8 +531,7 @@
       rsvp:{eyebrow:'Réponse souhaitée',title:'Serez-vous des nôtres ?',deadline:dl}};
   }
   let lgKey='', lgT=null;
-  function lgClear(){ lgKey=''; clearTimeout(lgT); $('cpPhone').querySelectorAll('iframe.cp-lg').forEach(x=>x.remove()); }
-  function lgRender(inv){
+  function lgRender(inv,wait){
     const key=JSON.stringify(inv); if(key===lgKey) return; lgKey=key; clearTimeout(lgT);
     lgT=setTimeout(async()=>{
       const meta=await (lgMeta[inv.theme]||(lgMeta[inv.theme]=fetch(`/img/long/${inv.theme}/meta.json`).then(r=>r.ok?r.json():null).catch(()=>null)));
@@ -539,9 +541,9 @@
       let y=0; try{ y=old.contentDocument.getElementById('sc').scrollTop; }catch(e){}
       const fr=document.createElement('iframe'); fr.className='cp-lg'; fr.title='Aperçu de votre faire-part'; fr.setAttribute('aria-label','Aperçu de votre faire-part'); fr.style.opacity=0;
       fr.srcdoc=`<!doctype html><html lang="fr"><head><meta charset="utf-8"><meta name="viewport" content="width=device-width, initial-scale=1"><base href="${location.origin}/"><link rel="stylesheet" href="/polices/polices.css"><link rel="stylesheet" href="/invite.css"><link rel="stylesheet" href="/reveal.css"><style>#op,#flash,.lg-want,.demo-tag,.snd{display:none!important}</style></head><body><script>window.INVITE=${JSON.stringify(inv).replace(/</g,'\\u003c')};<\/script><script src="/themes.js"><\/script><script src="/reveal.js"><\/script><script src="/invite.js"><\/script><script>document.getElementById('op').click();<\/script></body></html>`;
-      fr.onload=()=>setTimeout(()=>{ if(key!==lgKey){ fr.remove(); return; } try{ fr.contentDocument.getElementById('sc').scrollTop=y; }catch(e){} fr.style.opacity=1; olds.forEach(x=>x.remove()); },450);
+      fr.onload=()=>setTimeout(()=>{ if(key!==lgKey){ fr.remove(); return; } try{ fr.contentDocument.getElementById('sc').scrollTop=y; }catch(e){} fr.style.opacity=1; olds.forEach(x=>x.remove()); },200);
       ph.insertBefore(fr,$('cpTint'));
-    },250);
+    },wait);
   }
   // téléphone : l'aperçu réduit collé en haut s'agrandit en plein écran, et se referme
   { const pv=document.querySelector('.comp-prev'), big=$('cpBig'), cl=$('cpClose'), nav=$('wzNav'), side=$('cpMiniSteps'), home=nav.parentNode, mq=matchMedia('(max-width:720px)');

diff --git a/business/tools/recette/vitrine-configurateur.js b/business/tools/recette/vitrine-configurateur.js
@@ -39,7 +39,7 @@ async function audit(p){ return p.evaluate(()=>{
     await p.click('#wzNav [data-go="4"]'); await p.waitForTimeout(250);
     if(fmt==='scenes'){ for(const x of await p.$$('#cExtras button:not([hidden])')){ await x.click(); await p.waitForTimeout(60); } want=await p.$$eval('#cExtras button:not([hidden])',x=>x.filter(b=>['parents','story','dress','stay','gifts'].includes(b.dataset.id)).length); eds=await p.$$eval('#cExtrasEd .ed',x=>x.length); }
     await p.click('#wzNav [data-go="5"]'); await p.waitForTimeout(fmt==='long'?2500:600);
-    const r=await p.evaluate(()=>({ow:document.documentElement.scrollWidth-innerWidth,sum:document.getElementById('cSum').innerText,href:document.getElementById('cGo').href,iframe:!!document.querySelector('iframe.cp-lg'),scroll:document.getElementById('cpScroll').hidden,gifts:(document.querySelector('#cExtras [data-id="gifts"]')||{}).textContent}));
+    const r=await p.evaluate(()=>({ow:document.documentElement.scrollWidth-innerWidth,sum:document.getElementById('cSum').innerText,href:document.getElementById('cGo').href,iframe:!!document.querySelector('#cpPhone:not(.lg-off) iframe.cp-lg'),scroll:document.getElementById('cpScroll').hidden,gifts:(document.querySelector('#cExtras [data-id="gifts"]')||{}).textContent}));
     const giftOk={mariage:'Liste de mariage',henne:'Cagnotte',sbou3:'Liste de naissance'}[occ]===r.gifts;
     const okFmt=fmt==='long'?(r.iframe&&r.scroll):(!r.iframe&&!r.scroll);
     const okHref=r.href.includes('occasion='+occ)&&r.href.includes('theme='+k)&&r.href.includes('format='+fmt);

diff --git a/CLAUDE.md b/CLAUDE.md
@@ -279,7 +279,10 @@ faire-part, vitrine, aperçus, images d'aperçu WhatsApp (og.jpg), images géné
 
 33. **L'ouverture a son propre onglet** (étape 2 sur 5 : thème, ouverture, écrans, détails, récapitulatif), avec la
     révélation de la date. Arriver sur l'onglet rejoue l'ouverture dans l'aperçu.
-    **Chaque carte montre son effet**, en boucle de 5 s, dans un petit téléphone aux images du thème (`OV` dans vitrine.js,
+    **Chaque carte montre son effet** dans un petit téléphone aux images du thème : **au repos, une pose figée** qui dit
+    l'effet (enveloppe scellée, rideau à moitié levé, voile et portes entrouverts, ticket à moitié gratté) ; l'animation
+    (5 s) ne joue qu'**au survol** (« pour pas que ça prenne trop de dégâts »). L'enveloppe reprend les vraies images de
+    l'ouverture (`env-body`, `env-flap`, sceau sur la pointe du rabat), pas un dessin en CSS. Détail (`OV` dans vitrine.js,
     `.op-card.anim` et `ov*` dans vitrine.css) : enveloppe (sceau, rabat, descente), rideau qui se lève, voile qui s'ouvre
     par le milieu, portes sur gonds avec la lumière, date qui apparaît, ticket gratté par une pièce, roue qui tourne,
     jackpot 28 · 08 · 27. « Les gens voient direct l'impact, sans attendre le téléphone à droite. » Sélection par la coche.
